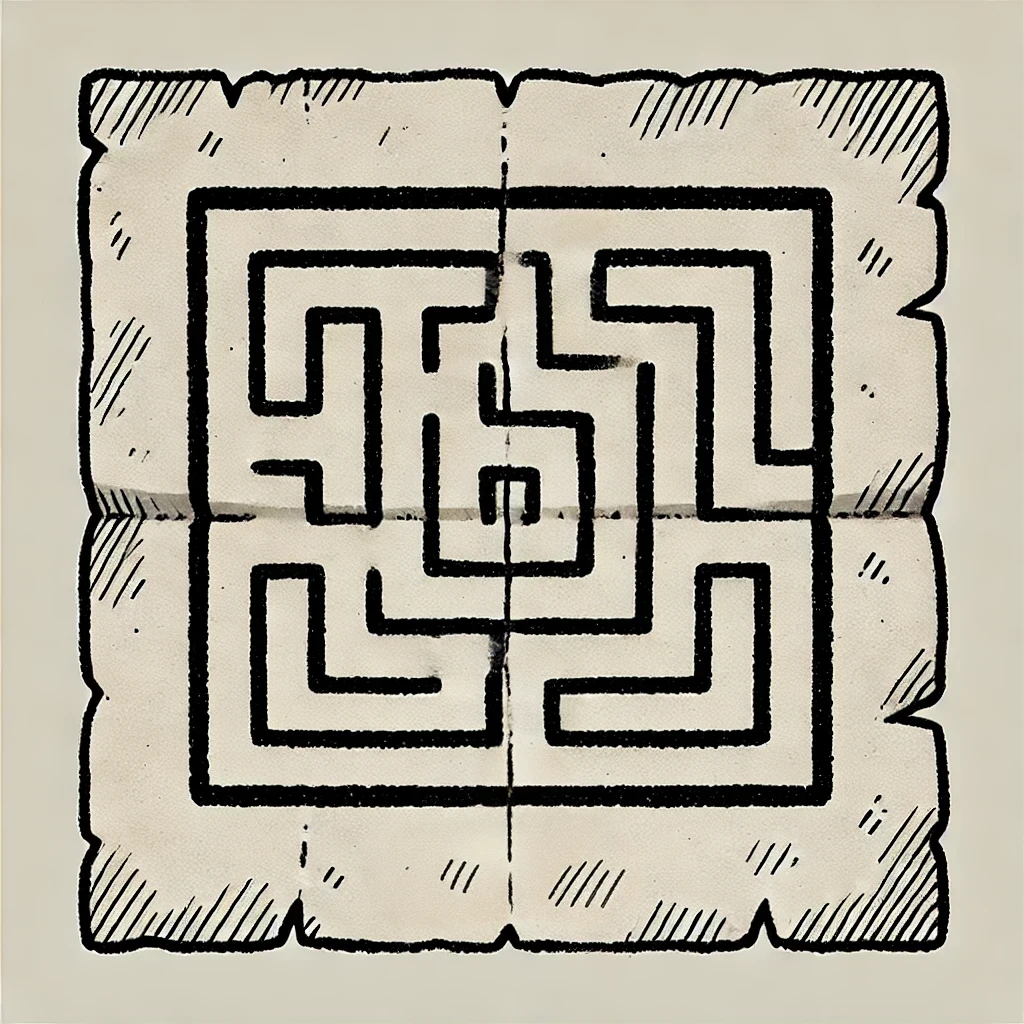
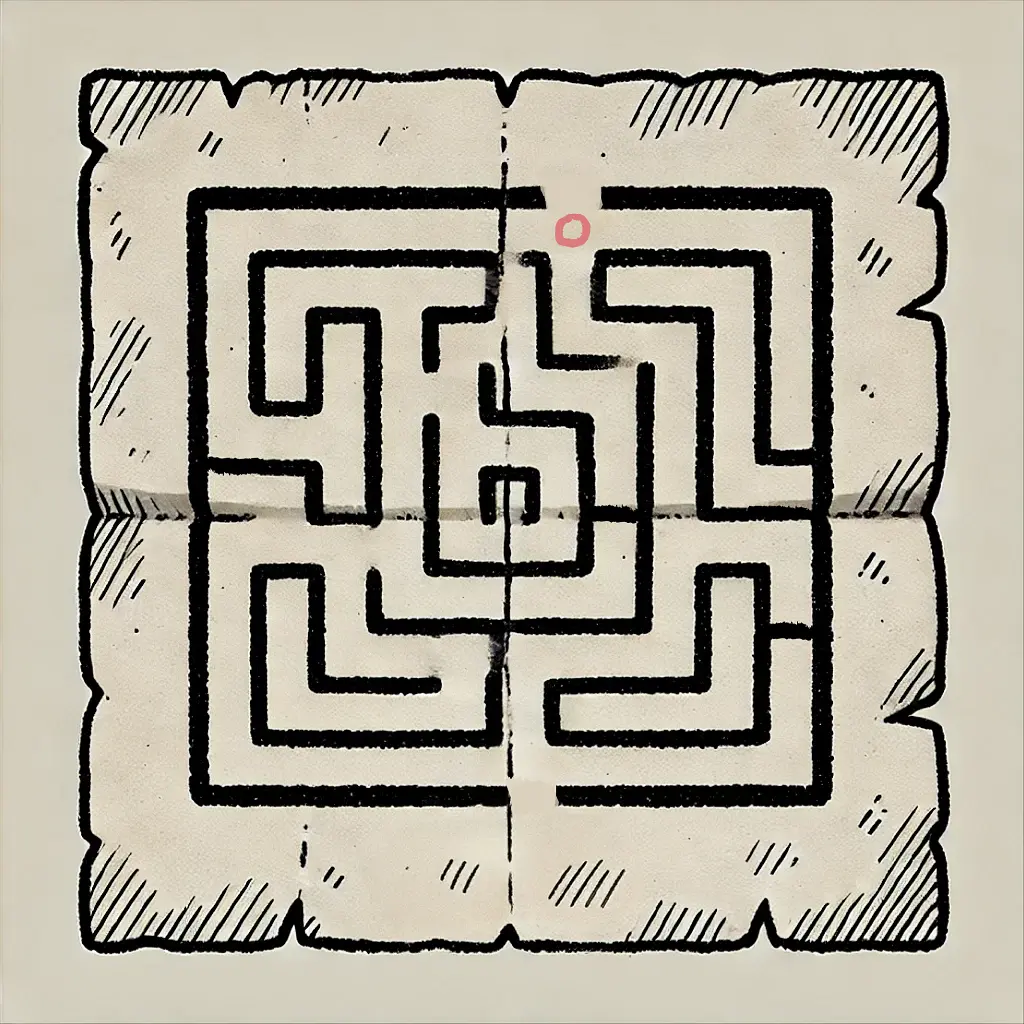
fix: fix level 2

diff --git a/assets/js/stories.js b/assets/js/stories.js
@@ -5,13 +5,9 @@ export const STORIES_DATA = [
         total_levels: 24,
         solutions: [
             "Fire",
+            "SOONSOWESOESOONE",
         ]
     },
-    {
-        story: 'christmas2025',
-        title: 'Christmas 2025',
-        total_levels: 24,
-    }
 ];
 
 export function getStoryData(story) {

diff --git a/_sass/dash/_layout.scss b/_sass/dash/_layout.scss
@@ -411,11 +411,11 @@
 
 .challenge-img {
   display: block;
-  height: 40vh;
+  height: 50vh;
   width: auto !important;
   margin: 0 auto;
-  margin-top: 2vh;
-  margin-bottom: 3vh;
+  margin-top: 3vh;
+  margin-bottom: 4vh;
 }
 
 .grid-img {

diff --git a/stories/christmas2024/act1.html b/stories/christmas2024/act1.html
@@ -1,5 +1,6 @@
 ---
 layout: post
+permalink: /stories/christmas2024/act1/
 title: "Act 1: The Ember of Warmth"
 ---
 

diff --git a/_posts/christmas2024/2024-10-06-the-rotating-labyrinth.md b/_posts/christmas2024/2024-10-06-the-rotating-labyrinth.md
@@ -1,6 +1,6 @@
 ---
 layout: level
-permalink: stories/christmas2024/act1/day-2-the-rotating-labyrinth/
+permalink: stories/christmas2024/act1/the-rotating-labyrinth/
 cover_img: stories/christmas2024/the-rotating-labyrinth.webp
 category: christmas2024
 level: 2
@@ -16,17 +16,17 @@ objective: >
 outcome: >
     After carefully navigating through the rotating labyrinth, the walls cease their movement, and you find the exit. The cold has deepened, but a distant light calls you onward. The Ember of Warmth is near, yet the Guardian's final trial awaits.
     <br><br>
-    Tomorrow, you will face the Guardian’s test—a challenge meant only for those worthy of restoring the Ember’s flame.
+    Tomorrow, you will face the final test...
 ---
 
 Knowing that, with each step you make, the maze rotates 90 degrees clockwise, you must determine the sequence of cardinal directions you must follow at each step in order to successfully reach the exit.
 
 Here is the maze that you drew:
 
-<div><img class="challenge-img" src="/assets/img/stories/christmas2024/rotating-labyrinth-sketch.webp" width="20%"></div>
+<div><img class="challenge-img" src="/assets/img/stories/christmas2024/rotating-labyrinth-sketch.webp"></div>
 
 Notice the following assumptions:
-- You already **start inside** the maze, at the initial tile **(marked with red)**.
+- You already **start inside** the maze, at the initial tile **(marked with red)**, and you target position is **outside** the maze.
 - The image is represented so that the **North** direction is pointing **upwards** and the **South** direction is pointing **downwards**.
 - The sequence must **only contain** the letters `N`, `S`, `E`, and `W`. An example of an answer (obviously wrong) is `SENSW`.
 

diff --git a/_posts/christmas2024/2024-10-05-the-icy-threshold.md b/_posts/christmas2024/2024-10-05-the-icy-threshold.md
@@ -1,6 +1,6 @@
 ---
 layout: level
-permalink: stories/christmas2024/act1/day-1-the-icy-threshold/
+permalink: stories/christmas2024/act1/the-icy-threshold/
 cover_img: stories/christmas2024/the-icy-threshold.webp
 category: christmas2024
 level: 1
